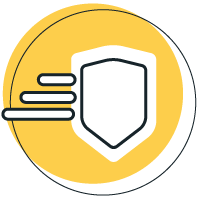
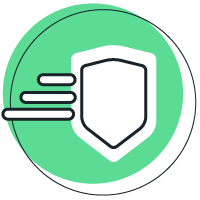
change the site background color to green

diff --git a/header-footer.css b/header-footer.css
@@ -5,7 +5,7 @@ header {
   top: 0;
   z-index: 999;
   width: 100%;
-  background: #3aafa9;
+  background: #5cdb94;
   color: #17242a;
   font-size: 16px;
   display: flex;
@@ -54,8 +54,8 @@ header label {
 }
 header nav .item.boxed:focus, 
 header nav .item.boxed:hover {
-    background-color: #17242a;
-    color: #fff;
+  background-color: transparent;
+  color: #17242a;
 }
 
 @media not all and (max-width: 900px) {
@@ -70,11 +70,13 @@ header nav .item.boxed:hover {
   header nav .item.boxed {
     margin: -0.5px 0 0 0.5em;
     padding: 1px calc(1em + 2px);
-    box-shadow: inset 0 0 0 2px currentColor;
+    background-clip: padding-box;
+    background-color: #17242a;
+    color: #fff;
+    box-shadow: inset 0 0 0 2px #17242a;
     border-radius: 0.8em;
     /* Note IE/Edge mangle this; workaround at EOF */
-    border: calc(0.5em + 0.4px) solid #3aafa9;
-    background-clip: padding-box;
+    border: calc(0.5em + 0.4px) solid #5cdb94;
   }
   header #show-nav, 
   header label {
@@ -133,7 +135,7 @@ header nav .item.boxed:hover {
     right: 0;
     bottom: 0;
     background: #69b3e7;
-    background: linear-gradient(#3aafa9, #2b7a77);
+    background: linear-gradient(#5cdb94, #3aafa9);
     padding: 60px 0;
     /* 3em is exact, then some vh factor added for prettiness;
      * 40vw - 60px is eyeballed to be 60px at 300px wide & 260 at 800 */
@@ -155,11 +157,13 @@ header nav .item.boxed:hover {
   }
   header nav .item.boxed {
     margin: 30px 20px 0 20px;
-    border: 1px solid #fff;
+    border: 1px solid #17242a;
     border-radius: 4px;
     text-align: center;
     padding: 5px 0;
     box-sizing: border-box;
+    background-color: #17242a;
+    color: #fff;
   }
 }
 
@@ -187,7 +191,7 @@ just going to ignore it, and only fix it for IE. */
 footer {
     position: relative;
     z-index: 999;
-    background: #3aafa9;
+    background: #5cdb94;
     text-align: center;
     padding: 15px 0;
 }

diff --git a/home.css b/home.css
@@ -43,7 +43,7 @@ h2::before {
 	padding: 70px 20px;
 }
 .section.bg {
-	background: #def2f1;
+	background: #f2f2f2;
 }
 .section h2 {
 	margin-top: 0;
@@ -103,15 +103,24 @@ h2::before {
 
 /* SUBSCRIBE */
 #subscribe {
-	padding: 30px 20px;
+	padding: 20px;
 	text-align: center;
 	font-size: 20px;
-	background: #fdce4b;
+	background: #17242a;
+	color: #fff;
 }
 
 #subscribe .cta {
 	margin-left: 20px;
 	margin-top: 0;
+	border-color: #fff;
+	color: #fff;
+}
+#subscribe .cta:focus,
+#subscribe .cta:hover {
+	background: #5cdb94;
+	color: #17242a;
+	border-color: #5cdb94;
 }
 @media (max-width: 860px) {
 	#subscribe span {
@@ -145,6 +154,7 @@ h2::before {
 	bottom: -40px;
 	left: 0;
 	text-align: center;
+	display: none;
 }
 .arrow img {
 	width: 103px;

diff --git a/video.css b/video.css
@@ -21,6 +21,8 @@
 }
 .hero-video figcaption {
   padding: 8px 15px 15px;
+  font-size: 18px;
+  font-weight: normal;
 }
 @media (max-width: 500px) {
   .hero-video figcaption {
@@ -77,7 +79,7 @@ a:hover .hv-play > div {
   display: block;
   text-decoration: none;
   font-weight: normal;
-  background: #eceff7;
+  background: #f2f2f2;
   box-shadow: 0 0 10px rgba(51, 62, 72, 0.3);
   text-align: center;
   color: #17242a;
@@ -85,9 +87,6 @@ a:hover .hv-play > div {
 .hero-video > a:focus, 
 .hero-video > a:hover {
   box-shadow: 0 0 20px rgba(51, 62, 72, 0.5);
-}
-.hero-video figcaption {
-  font-weight: bold;
 }
 .lightbox {
   position: fixed;

diff --git a/banner.css b/banner.css
@@ -1,6 +1,6 @@
 /* BANNER */
 #banner {
-	background: #3aafa9;
+	background: #5cdb94;
 	color: #17242a;
 }
 #banner .container {
@@ -36,14 +36,15 @@
 }
 #banner .cta {
 	margin-top: 30px;
-	background: #fdce4b;
-	border-color: #fdce4b;
-}
-#banner .cta:focus,
-#banner .cta:hover {
 	background: #17242a;
 	border-color: #17242a;
 	color: #fff;
+}
+#banner .cta:focus,
+#banner .cta:hover {
+	background: #5cdb94;
+	border-color: #17242a;
+	color: #17242a;
 }
 
 @media (max-width: 768px) {

diff --git a/main.css b/main.css
@@ -195,7 +195,7 @@ h4:before {
     display: none;
 }
 .intro {
-    font-size: 25px;
+    font-size: 20px;
     font-weight: bold;
 }
 
@@ -294,6 +294,9 @@ h4:before {
     }
     h1 {
         font-size: 30px;
+    }
+    h2 {
+        font-size: 25px;
     }
 }
 @media print {

diff --git a/tryit.css b/tryit.css
@@ -14,7 +14,7 @@
 }
 
 #banner-sub {
-	background: #def2f1;
+	background: #f2f2f2;
 }
 #banner-sub a{
 	color: #17242a;
@@ -28,4 +28,9 @@
 	#banner-sub .container {
 		padding: 20px 30px;
 	}
+}
+
+/* Remove heading toc list */
+h2::before {
+    content: "";
 }
